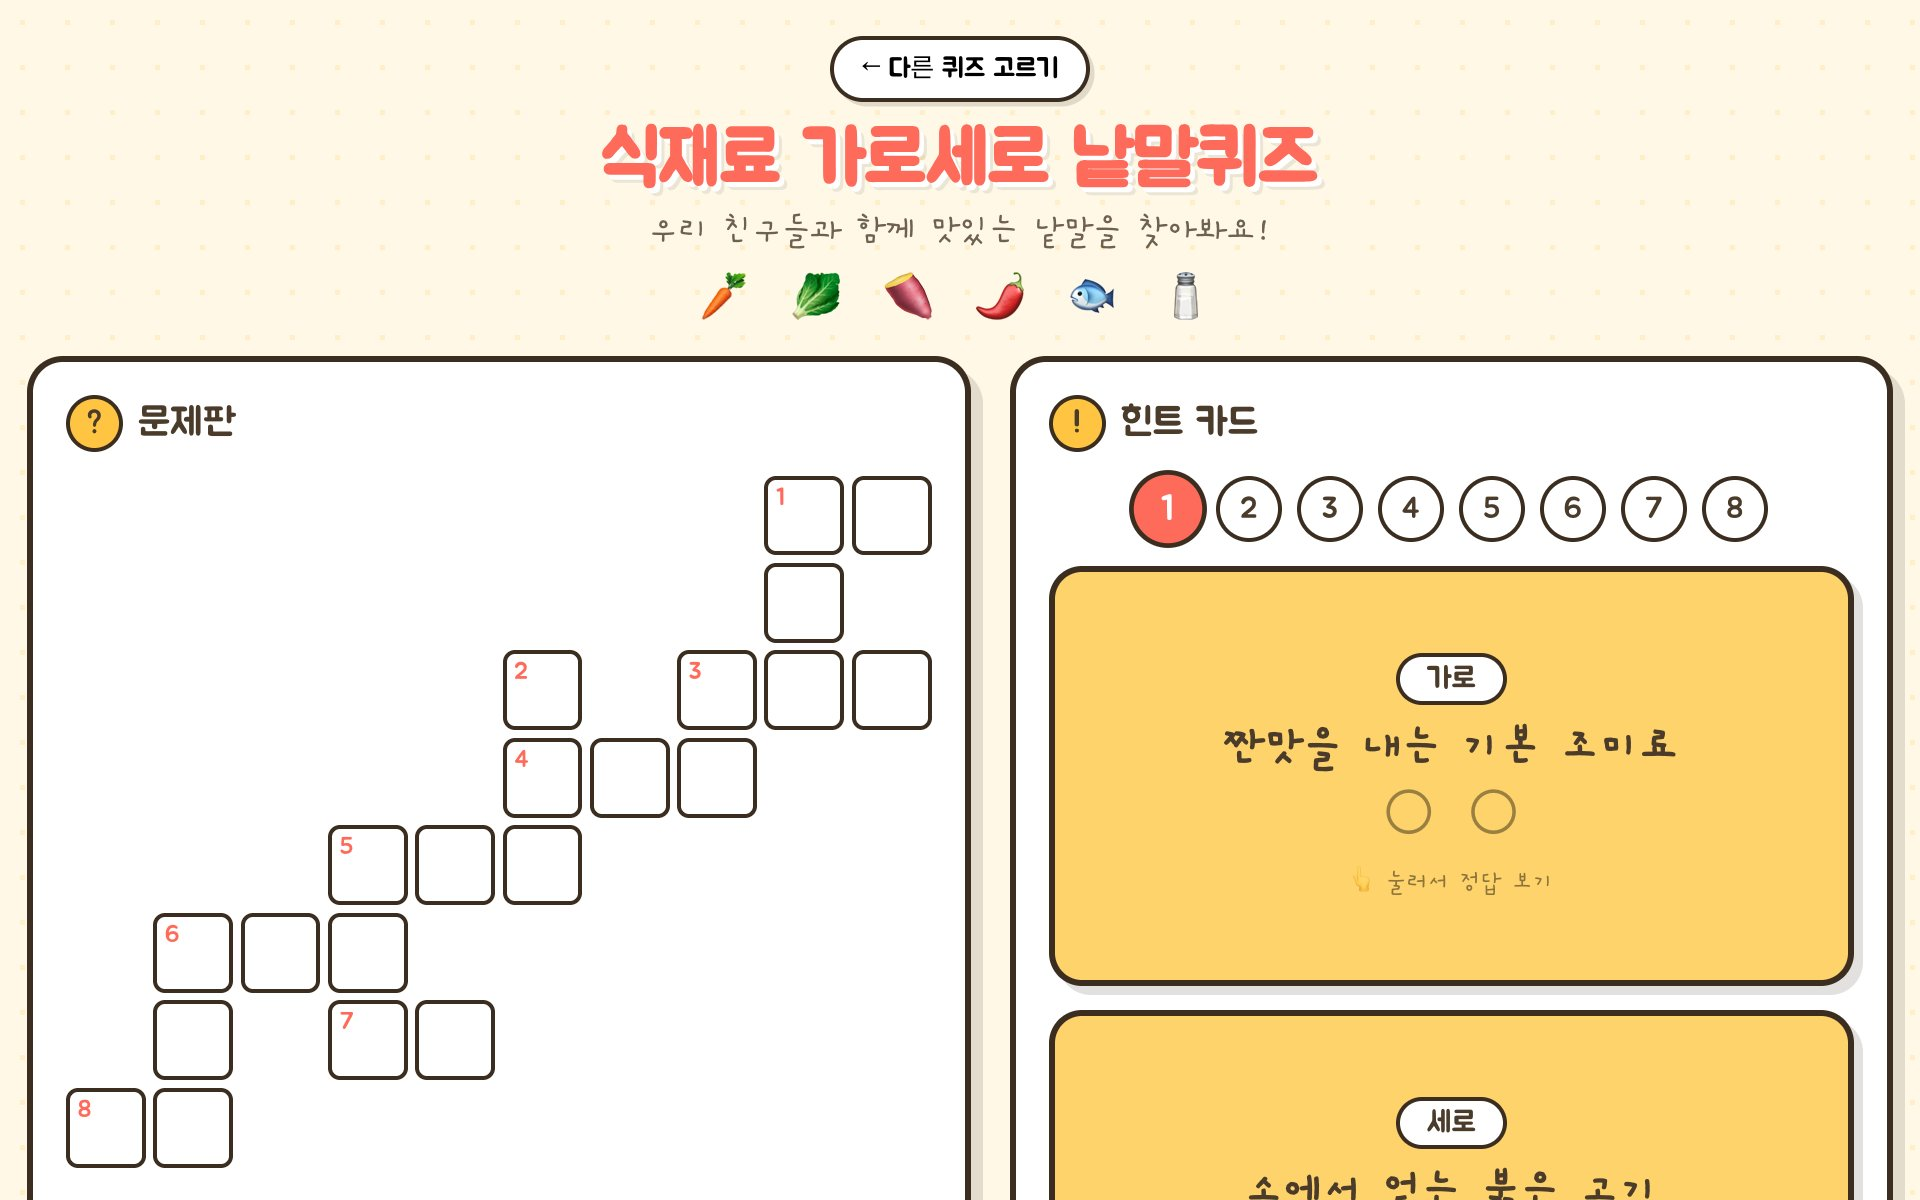
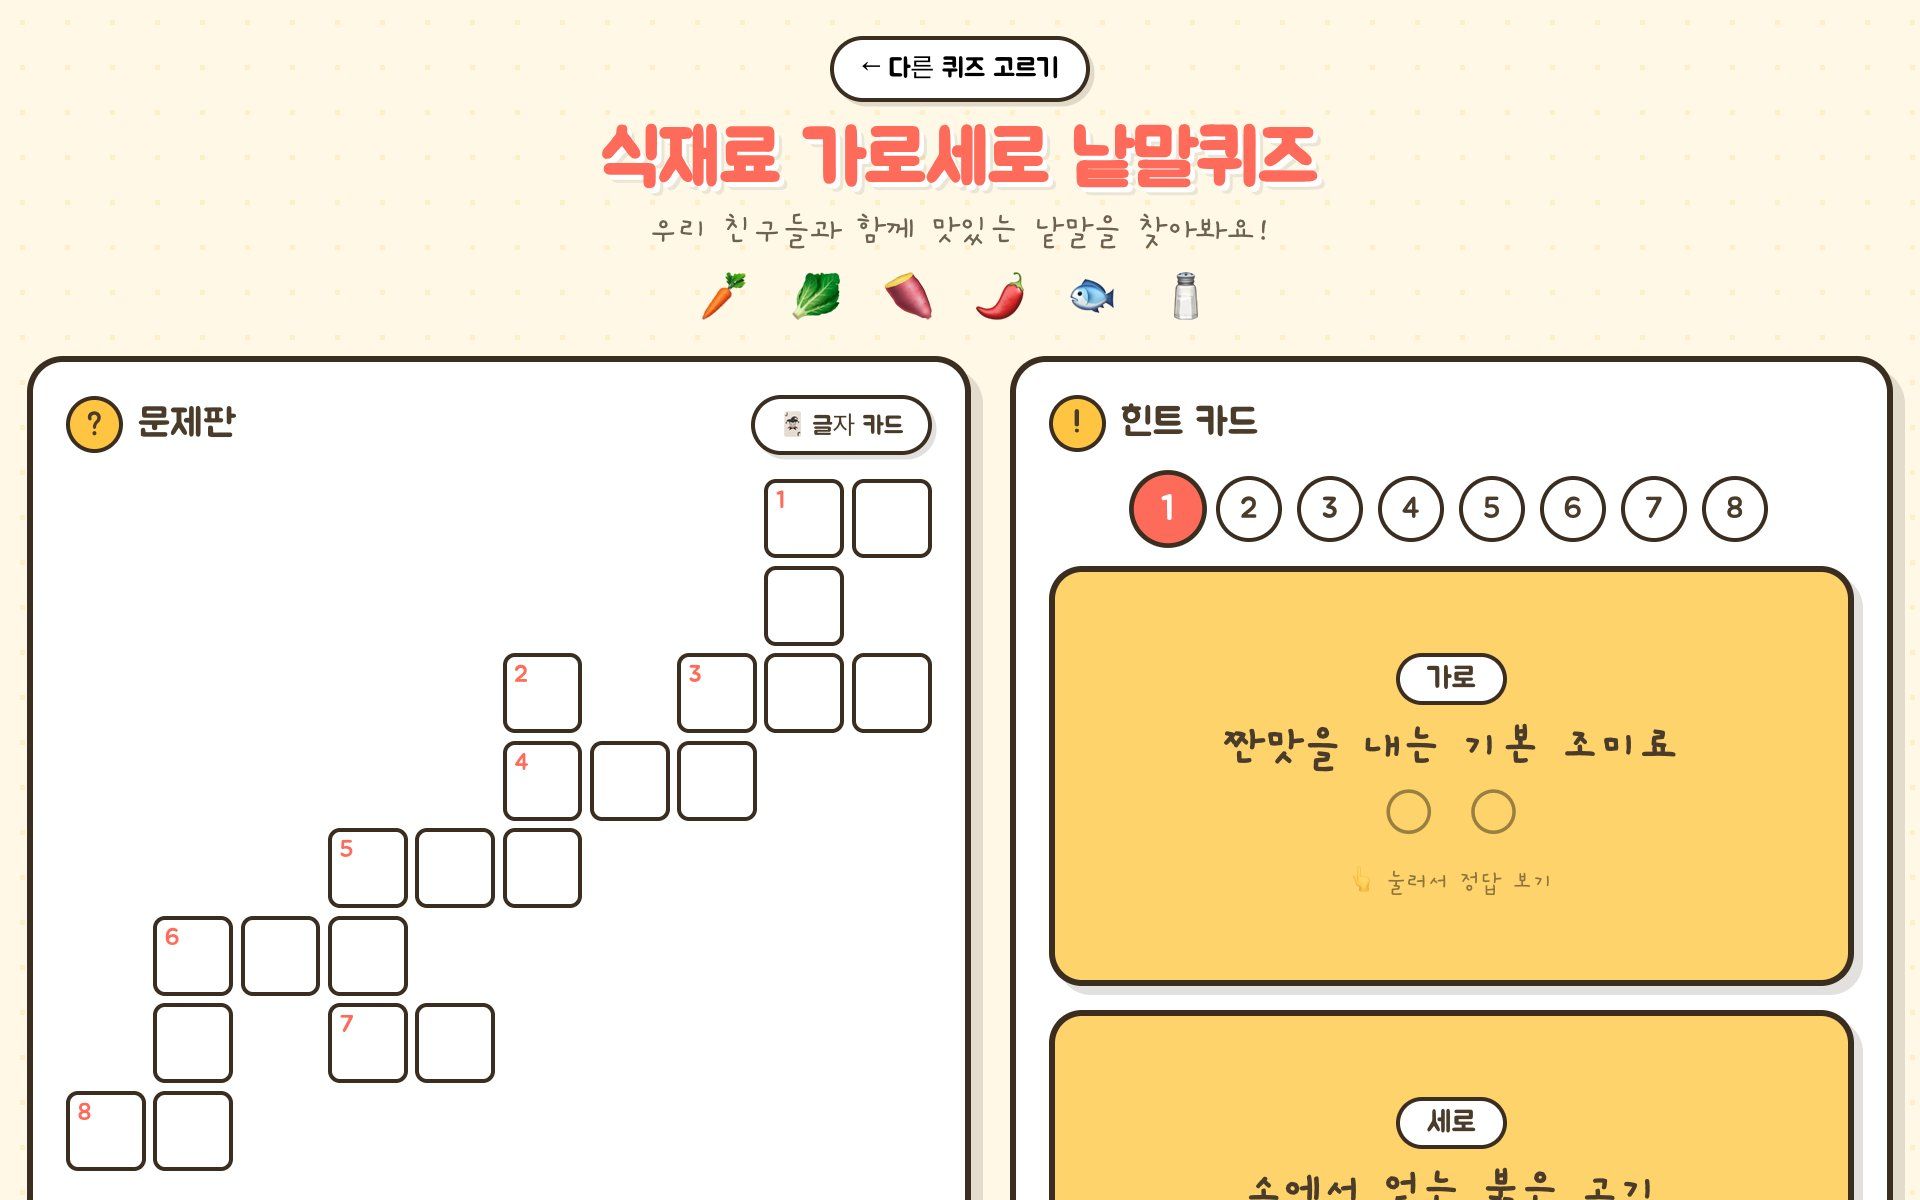
낱말 퀴즈: 글자 카드 선택식 입력(기본) + 글자 쓰기 모드 토글
- 유아 발달 고려: 타이핑 대신 채울 칸 탭→글자 카드 선택(퍼즐 글자+방해 글자, 지우개 포함)
- ⌨️ 글자 쓰기 모드는 만 6~7세 심화용 토글
- 놀이법: '글자 카드로 채우기' 슬라이드 추가(5장), 연령별 팁 갱신, 캡처 재촬영

diff --git a/js/quiz-play.js b/js/quiz-play.js
@@ -7,6 +7,8 @@
 
   let quizzes = [];
   let idx = 0, CARDS = [], inputs = {}, ans = {};
+  // 입력 모드: "cards"(글자 카드 선택, 기본) | "type"(직접 타이핑, 심화)
+  let mode = "cards", selKey = null;
 
   const COLORS = [['#FFD36B', '#FFE9A8'], ['#9CD6F5', '#C9EAFB'], ['#FF9E8A', '#FFC9BE'], ['#A9DD7B', '#CFEEAE'],
     ['#C9A7E8', '#E2CFF4'], ['#FFB85C', '#FFD49A'], ['#7FD0C4', '#B4E6DE'], ['#F4A0C0', '#FBC9DC']];
@@ -74,6 +76,7 @@
         const inp = document.createElement("input");
         inp.className = "cinp"; inp.type = "text"; inp.setAttribute("inputmode", "text"); inp.maxLength = 2;
         inp.addEventListener("input", () => { div.classList.remove("correct", "wrong"); $("result").textContent = ""; });
+        div.addEventListener("click", () => { if (mode === "cards") selectCell(key); });
         div.appendChild(inp); inputs[key] = inp;
       } else { div.className = "cell"; }
       board.appendChild(div);
@@ -88,7 +91,57 @@
     });
     renderCard();
     $("result").textContent = "";
+    renderTray();
+    setMode(mode);
+    selectCell(null);
     showScreen("game");
+  }
+
+  // ── 글자 카드 입력 ──
+  function setMode(m) {
+    mode = m;
+    const btn = $("modeBtn");
+    if (btn) btn.textContent = m === "cards" ? "🃏 글자 카드" : "⌨️ 글자 쓰기";
+    for (const key in inputs) inputs[key].readOnly = (m === "cards");
+    const tray = $("tray");
+    if (tray) tray.hidden = (m !== "cards");
+    if (m !== "cards") selectCell(null);
+  }
+
+  function selectCell(key) {
+    selKey = key;
+    $("board").querySelectorAll(".cell.sel").forEach(d => d.classList.remove("sel"));
+    if (key) {
+      const d = $("board").querySelector('[data-key="' + key + '"]');
+      if (d) d.classList.add("sel");
+    }
+  }
+
+  // 트레이: 퍼즐의 글자(중복 제거) + 방해 글자 몇 개를 섞어 보여줌
+  const DISTRACTORS = ["가", "나", "도", "루", "미", "보", "수", "오", "코", "하"];
+  function renderTray() {
+    const tray = $("tray");
+    if (!tray) return;
+    const set = new Set(Object.values(ans));
+    const chars = [...set];
+    for (const d of DISTRACTORS) {
+      if (chars.length >= Math.max(10, set.size + 3)) break;
+      if (!set.has(d)) chars.push(d);
+    }
+    for (let i = chars.length - 1; i > 0; i--) {
+      const j = Math.floor(Math.random() * (i + 1));
+      [chars[i], chars[j]] = [chars[j], chars[i]];
+    }
+    tray.innerHTML = chars.map(c => `<button type="button" class="lcard">${esc(c)}</button>`).join("") +
+      `<button type="button" class="lcard eraser" aria-label="지우기">🧽</button>`;
+    tray.querySelectorAll(".lcard").forEach(b => b.onclick = () => {
+      if (!selKey) { $("result").textContent = "먼저 채울 칸을 콕 눌러 주세요 👆"; return; }
+      const cellDiv = $("board").querySelector('[data-key="' + selKey + '"]');
+      inputs[selKey].value = b.classList.contains("eraser") ? "" : b.textContent;
+      cellDiv.classList.remove("correct", "wrong");
+      $("result").textContent = "";
+      selectCell(null);
+    });
   }
 
   function renderCard() {
@@ -160,6 +213,8 @@
     $("prevBtn").onclick = () => { if (idx > 0) { idx--; renderCard(); } };
     $("nextBtn").onclick = () => { if (idx < CARDS.length - 1) { idx++; renderCard(); } };
     $("back-btn").onclick = () => renderSelect();
+    const mb = $("modeBtn");
+    if (mb) mb.onclick = () => setMode(mode === "cards" ? "type" : "cards");
   }
 
   // ── 부팅 ──

diff --git a/guides/word-quiz.html b/guides/word-quiz.html
@@ -129,18 +129,24 @@
           <figure class="g-slide">
             <div class="g-slide-badge"><span class="n">2</span> 문제판과 힌트</div>
             <img src="../assets/guide/wordquiz/02-board.jpg" alt="왼쪽 문제판 격자와 오른쪽 힌트 카드가 있는 놀이 화면" loading="lazy">
-            <figcaption>왼쪽은 글자를 채우는 <b>문제판</b>, 오른쪽은 <b>힌트 카드</b>예요. 칸의 <b>번호</b>와 힌트의 <b>가로·세로</b>를 보고 빈칸에 글자를 하나씩 써요.</figcaption>
+            <figcaption>왼쪽은 글자를 채우는 <b>문제판</b>, 오른쪽은 <b>힌트 카드</b>예요. 칸의 <b>번호</b>와 힌트의 <b>가로·세로</b>를 짝지어 읽으며 시작해요.</figcaption>
           </figure>
 
           <figure class="g-slide">
-            <div class="g-slide-badge"><span class="n">3</span> 힌트 카드 뒤집기</div>
-            <img src="../assets/guide/wordquiz/03-hint.jpg" alt="힌트 카드를 눌러 정답 그림과 낱말이 나타난 모습" loading="lazy">
+            <div class="g-slide-badge"><span class="n">3</span> 글자 카드로 채우기</div>
+            <img src="../assets/guide/wordquiz/03-cards.jpg" alt="선택한 칸과 아래 글자 카드 목록이 보이는 화면" loading="lazy">
+            <figcaption>채울 칸을 <b>콕 누르면 노랗게</b> 표시돼요. 아래 <b>글자 카드</b>에서 알맞은 글자를 골라 채우고, 지우개(🧽) 카드로 지워요. 타이핑이 익숙한 아이는 오른쪽 위 버튼으로 <b>⌨️ 글자 쓰기</b> 모드로 바꿀 수 있어요.</figcaption>
+          </figure>
+
+          <figure class="g-slide">
+            <div class="g-slide-badge"><span class="n">4</span> 힌트 카드 뒤집기</div>
+            <img src="../assets/guide/wordquiz/04-hint.jpg" alt="힌트 카드를 눌러 정답 그림과 낱말이 나타난 모습" loading="lazy">
             <figcaption>힌트 카드를 <b>톡 누르면 뒤집혀서</b> 정답 그림·낱말·설명이 나와요. 너무 어려울 때 살짝 힌트로 써요. 위쪽 <b>번호 동그라미</b>로 다른 힌트도 넘겨봐요.</figcaption>
           </figure>
 
           <figure class="g-slide">
-            <div class="g-slide-badge"><span class="n">4</span> 채점과 정답</div>
-            <img src="../assets/guide/wordquiz/04-answers.jpg" alt="정답 보기로 모든 칸이 채워진 문제판" loading="lazy">
+            <div class="g-slide-badge"><span class="n">5</span> 채점과 정답</div>
+            <img src="../assets/guide/wordquiz/05-answers.jpg" alt="정답 보기로 모든 칸이 채워진 문제판" loading="lazy">
             <figcaption>다 채웠으면 <b>채점하기</b>로 몇 칸 맞았는지 확인해요. <b>정답 보기</b>를 누르면 모두 채워지고, <b>지우기</b>로 처음부터 다시 도전할 수 있어요.</figcaption>
           </figure>
 
@@ -175,7 +181,7 @@
           <h3>만 4~5세</h3>
           <ul>
             <li>글자 수가 <b>적은 낱말</b> 위주로 만든 퀴즈로 시작해요</li>
-            <li>힌트 카드를 <b>먼저 뒤집어</b> 정답을 보고 따라 써요</li>
+            <li>힌트 카드를 <b>먼저 뒤집어</b> 정답을 보고, <b>글자 카드</b>에서 같은 글자를 찾아 채워요</li>
             <li>선생님이 글자를 소리 내어 함께 읽어줘요</li>
           </ul>
         </div>
@@ -191,7 +197,7 @@
           <h3>만 6~7세</h3>
           <ul>
             <li>힌트 없이 <b>먼저 채운 뒤</b> 카드로 확인해요</li>
-            <li>친구에게 힌트를 <b>말로 설명</b>해 주기</li>
+            <li><b>⌨️ 글자 쓰기</b> 모드로 바꿔 직접 타이핑에 도전해요</li>
             <li>직접 낱말·힌트를 제안해 <b>새 퀴즈 만들기</b>에 참여해요</li>
           </ul>
         </div>

diff --git a/plays/word-quiz.html b/plays/word-quiz.html
@@ -139,6 +139,21 @@
   .wq-quiz .meta{margin-top:10px;font-size:14px;color:var(--tomato);font-weight:700;}
   .wq-back{font-family:'Jua',sans-serif;font-size:18px;background:#fff;border:3px solid var(--line);border-radius:40px;padding:8px 18px;cursor:pointer;box-shadow:3px 3px 0 rgba(59,46,32,.15);margin-bottom:12px;}
   .wq-back:active{transform:translate(2px,2px);box-shadow:1px 1px 0 rgba(59,46,32,.15);}
+  /* ===== 글자 카드 입력 ===== */
+  .mode-btn{margin-left:auto;font-family:'Jua',sans-serif;font-size:17px;color:var(--ink);background:#fff;
+    border:3px solid var(--line);border-radius:40px;padding:6px 16px;cursor:pointer;
+    box-shadow:3px 3px 0 rgba(59,46,32,.15);touch-action:manipulation;}
+  .mode-btn:active{transform:translate(1px,1px);box-shadow:1px 1px 0 rgba(59,46,32,.15);}
+  .cell.sel{outline:4px solid var(--sun);outline-offset:-2px;border-radius:8px;}
+  .cell.sel .cinp{background:#FFF6D6;}
+  .tray{display:flex;flex-wrap:wrap;gap:10px;margin-top:18px;justify-content:center;}
+  .tray[hidden]{display:none;}
+  .lcard{width:58px;height:58px;font-family:'Jua',sans-serif;font-size:26px;color:var(--ink);background:#fff;
+    border:3px solid var(--line);border-radius:14px;cursor:pointer;padding:0;
+    box-shadow:4px 4px 0 rgba(59,46,32,.18);display:flex;align-items:center;justify-content:center;
+    transition:transform .08s;touch-action:manipulation;}
+  .lcard:active{transform:translate(2px,2px);box-shadow:1px 1px 0 rgba(59,46,32,.18);}
+  .lcard.eraser{background:#F3EEFA;}
 </style>
 </head>
 <body>
@@ -155,8 +170,9 @@
   <div class="layout">
     <div class="col-left">
       <section class="panel">
-        <div class="panel-title"><span class="dot-badge">?</span> 문제판</div>
+        <div class="panel-title"><span class="dot-badge">?</span> 문제판 <button type="button" class="mode-btn" id="modeBtn">🃏 글자 카드</button></div>
         <div class="board-scroll"><div class="board" id="board"></div></div>
+        <div class="tray" id="tray"></div>
         <div class="btnrow">
           <button class="btn btn-check" id="checkBtn">채점하기 ✓</button>
           <button class="btn btn-show" id="showBtn">정답 보기 ✨</button>
@@ -185,6 +201,6 @@
 <script src="../js/firebase-config.js"></script>
 <script type="module" src="../js/auth.js?v=gis2"></script>
 <script src="../js/quiz-model.js?v=wq1"></script>
-<script src="../js/quiz-play.js?v=wq1"></script>
+<script src="../js/quiz-play.js?v=wq2"></script>
 </body>
 </html>